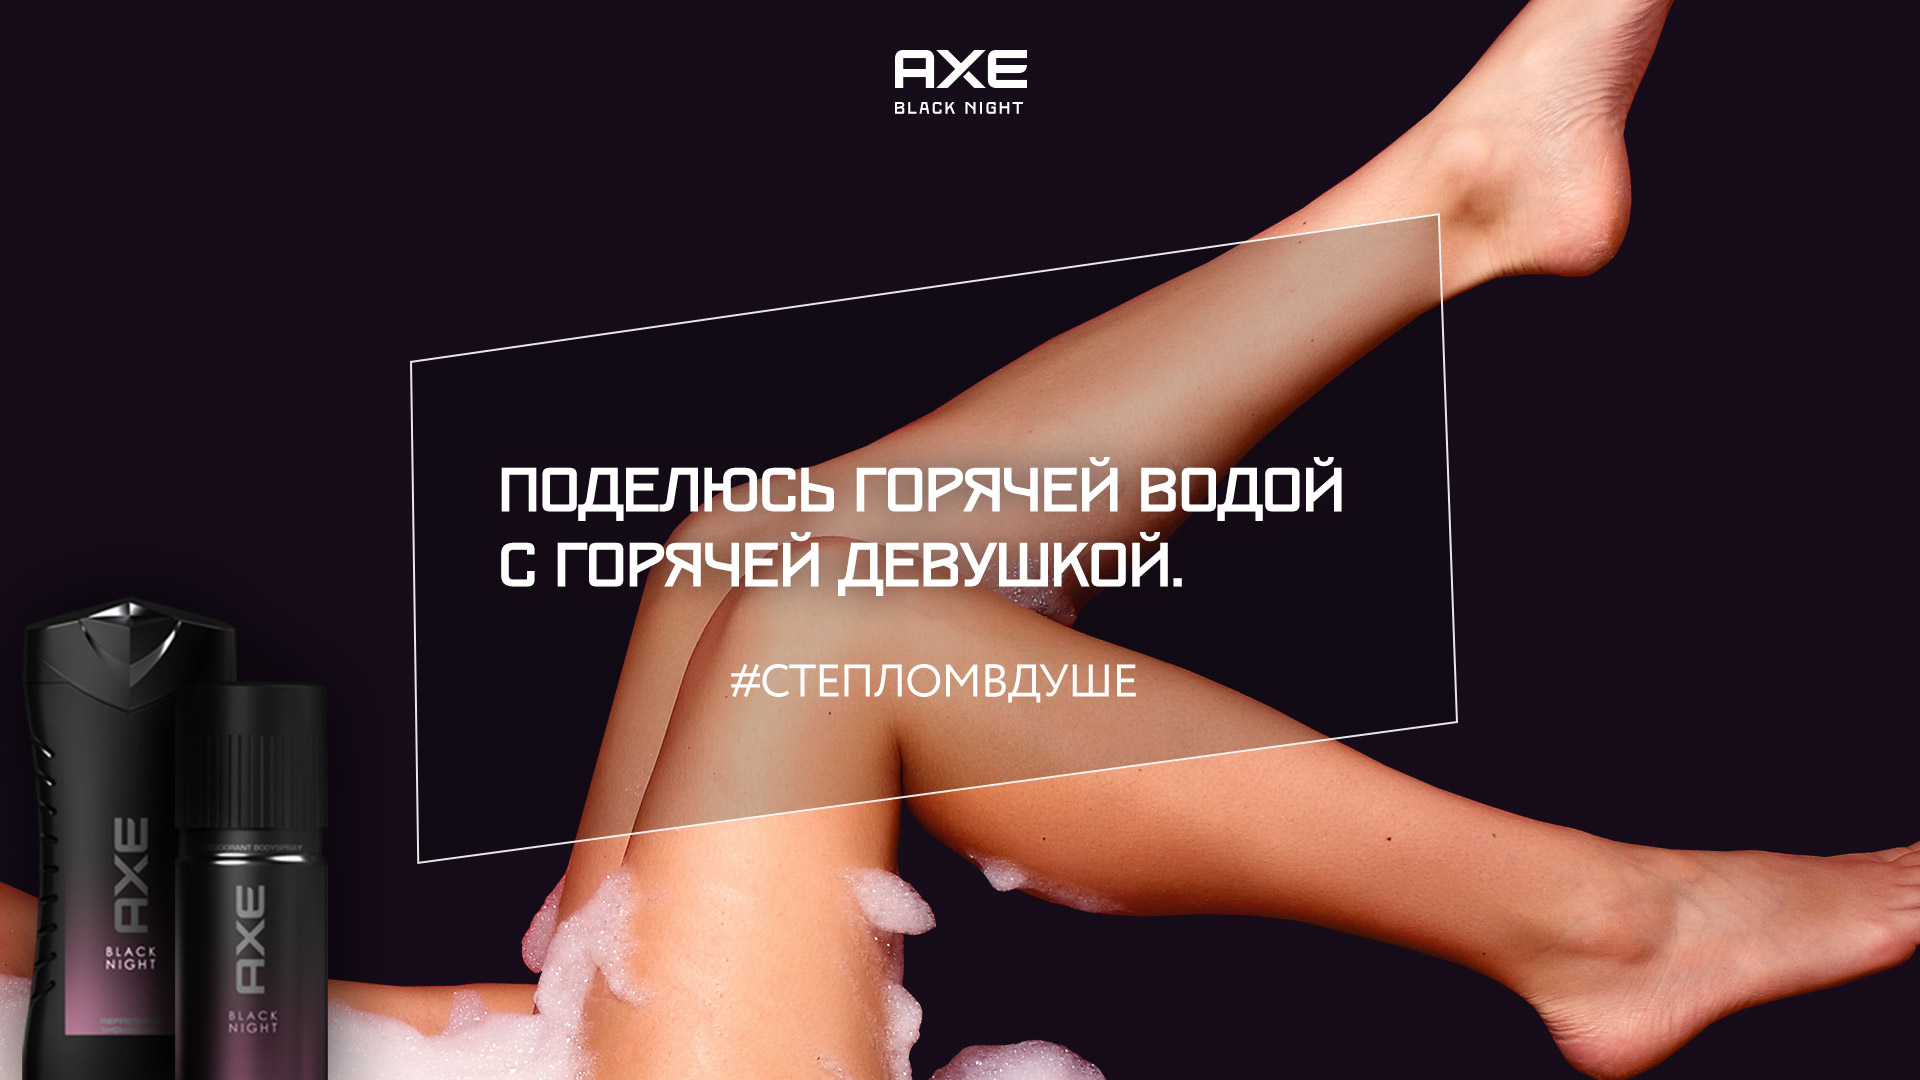
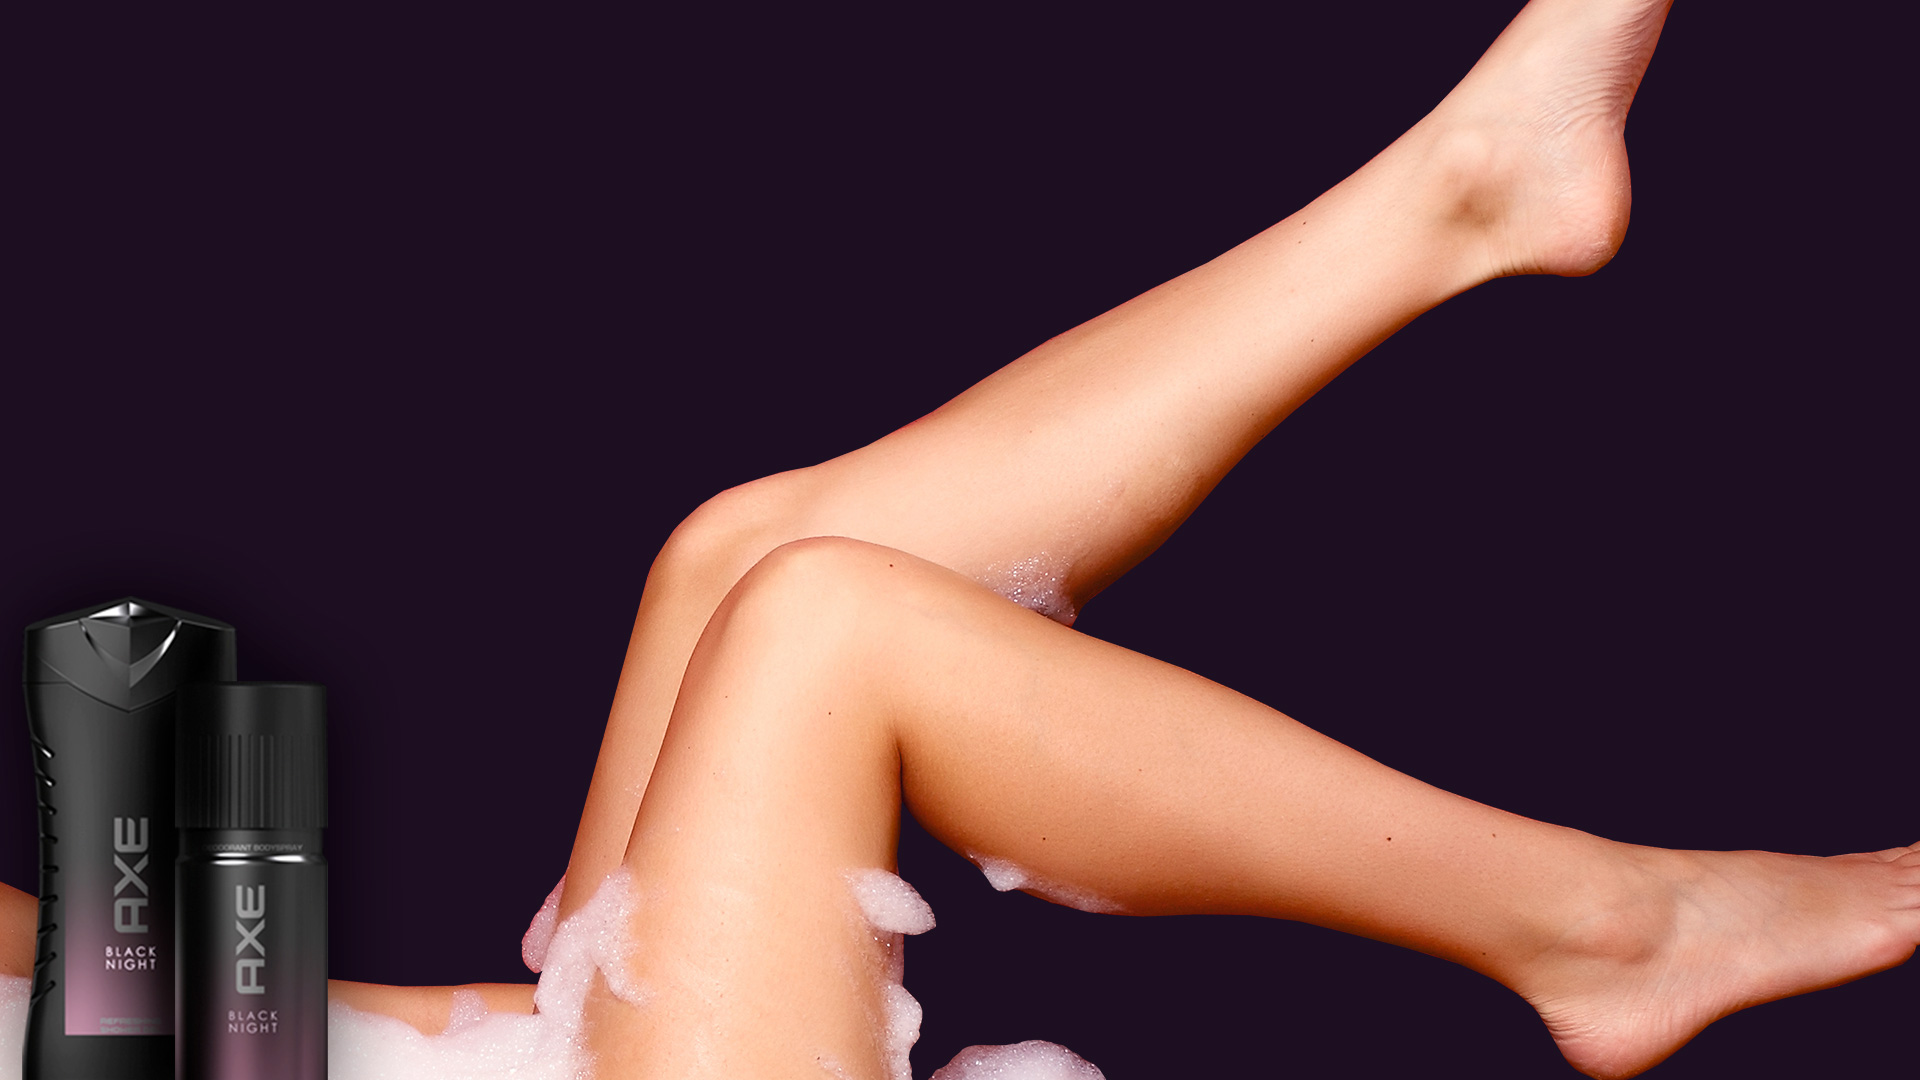
sharing screens refactoring

Changed region(s): [[0.25, 0.1833, 0.75, 0.7944], [0.4688, 0.0306, 0.5312, 0.1222]]

diff --git a/assets/style.css b/assets/style.css
@@ -367,6 +367,23 @@ label {
     height: 100%;
 }
 
+.b_valign .share-post {
+    position: relative;
+    top: auto;
+    bottom: auto;
+
+    margin: 5em 0 0;
+}
+
+.b_valign .share-post__text {
+    margin: 0;
+}
+
+.b_valign .share-post__link {
+    width: 4vw;
+    height: 4vw;
+}
+
 .b_valign-cont {
     position: relative;
     display: table-cell;
@@ -412,6 +429,23 @@ label {
     border: 2px solid white;
 }
 
+.heading.is-bordered.is-hashtagged {
+    padding-bottom: 1.2em;
+    line-height: 1.2em;
+}
+
+.unrotate {
+    transform: skew(7.5deg) rotate(7.5deg);
+}
+
+.heading.is-bordered .hashtag {
+    display: block;
+    margin-top: 0.8em;
+
+    font-size: .8em;
+    font-weight: normal;
+}
+
 .heading.is-bordered + .button {
     transform: skew(-7.5deg) rotate(-7.5deg) translateY(-50%);
 
@@ -445,6 +479,12 @@ label {
 
     background: #2b182e;
     background: rgba(43, 24, 46, 0.9);
+}
+
+@media screen and (max-height: 660px) {
+    .content {
+        font-size: 13px;
+    }
 }
 
 @media screen and (max-height: 560px) {

diff --git a/index.php b/index.php
@@ -170,25 +170,57 @@
             <div class="screen screen--for_m_share for_share for_man">
                 <div class="product"></div>
                 <div class="screen__bg">
-                </div>
-                <div class="share-post">
-                    <div class="share-post__text">Поделись постом:</div>
-                    <a class="share-post__link" target="_blank" href="http://vkontakte.ru/share.php?url=http://nighthero.ru/showerdating?bs"></a>
-                    <a class="share-post__link" target="_blank" href="http://www.facebook.com/sharer/sharer.php?u=http://nighthero.ru/showerdating?bs"></a>
-                    <a class="share-post__link" target="_blank" href="http://www.odnoklassniki.ru/dk?st.cmd=addShare&st.s=1&st._surl=http://nighthero.ru/showerdating?bs"></a>
-                    <a class="share-post__link" target="_blank" href="http://twitter.com/share?u=http://nighthero.ru/showerdating?bs"></a>
+                    <div class="top">
+                        <div class="logo"></div>
+                    </div>
+                    <div class="content">
+                        <div class="b_valign">
+                            <div class="b_valign-cont">
+                                <h2 class="heading is-bordered is-hashtagged">
+                                    <div class="unrotate">
+                                        Поделюсь горячей водой<br>
+                                        с горячей девушкой
+                                        <span class="hashtag">#СТЕПЛОМВДУШЕ</span>
+                                    </div>
+                                </h2>
+                                <div class="share-post">
+                                    <div class="share-post__text">Поделись постом:</div>
+                                    <a class="share-post__link" target="_blank" href="http://vkontakte.ru/share.php?url=http://nighthero.ru/showerdating?bs"></a>
+                                    <a class="share-post__link" target="_blank" href="http://www.facebook.com/sharer/sharer.php?u=http://nighthero.ru/showerdating?bs"></a>
+                                    <a class="share-post__link" target="_blank" href="http://www.odnoklassniki.ru/dk?st.cmd=addShare&st.s=1&st._surl=http://nighthero.ru/showerdating?bs"></a>
+                                    <a class="share-post__link" target="_blank" href="http://twitter.com/share?u=http://nighthero.ru/showerdating?bs"></a>
+                                </div>
+                            </div>
+                        </div>
+                    </div>
                 </div>
             </div>
 
             <div class="screen screen--for_m_water_share for_share for_man">
                 <div class="product"></div>
                 <div class="screen__bg">
-                    <div class="share-post">
-                        <div class="share-post__text">Поделись постом:</div>
-                        <a class="share-post__link" target="_blank" href="http://vkontakte.ru/share.php?url=http://nighthero.ru/showerdating?bg"></a>
-                        <a class="share-post__link" target="_blank" href="http://www.facebook.com/sharer/sharer.php?u=http://nighthero.ru/showerdating?bg"></a>
-                        <a class="share-post__link" target="_blank" href="http://www.odnoklassniki.ru/dk?st.cmd=addShare&st.s=1&st._surl=http://nighthero.ru/showerdating?bg"></a>
-                        <a class="share-post__link" target="_blank" href="http://twitter.com/share?u=http://nighthero.ru/showerdating?bg"></a>
+                    <div class="top">
+                        <div class="logo"></div>
+                    </div>
+                    <div class="content">
+                        <div class="b_valign">
+                            <div class="b_valign-cont">
+                                <h2 class="heading is-bordered is-hashtagged">
+                                    <div class="unrotate">
+                                        Ищу девушку<br>
+                                        с теплом в душе
+                                        <span class="hashtag">#СТЕПЛОМВДУШЕ</span>
+                                    </div>
+                                </h2>
+                                <div class="share-post">
+                                    <div class="share-post__text">Поделись постом:</div>
+                                    <a class="share-post__link" target="_blank" href="http://vkontakte.ru/share.php?url=http://nighthero.ru/showerdating?bg"></a>
+                                    <a class="share-post__link" target="_blank" href="http://www.facebook.com/sharer/sharer.php?u=http://nighthero.ru/showerdating?bg"></a>
+                                    <a class="share-post__link" target="_blank" href="http://www.odnoklassniki.ru/dk?st.cmd=addShare&st.s=1&st._surl=http://nighthero.ru/showerdating?bg"></a>
+                                    <a class="share-post__link" target="_blank" href="http://twitter.com/share?u=http://nighthero.ru/showerdating?bg"></a>
+                                </div>
+                            </div>
+                        </div>
                     </div>
                 </div>
             </div>
